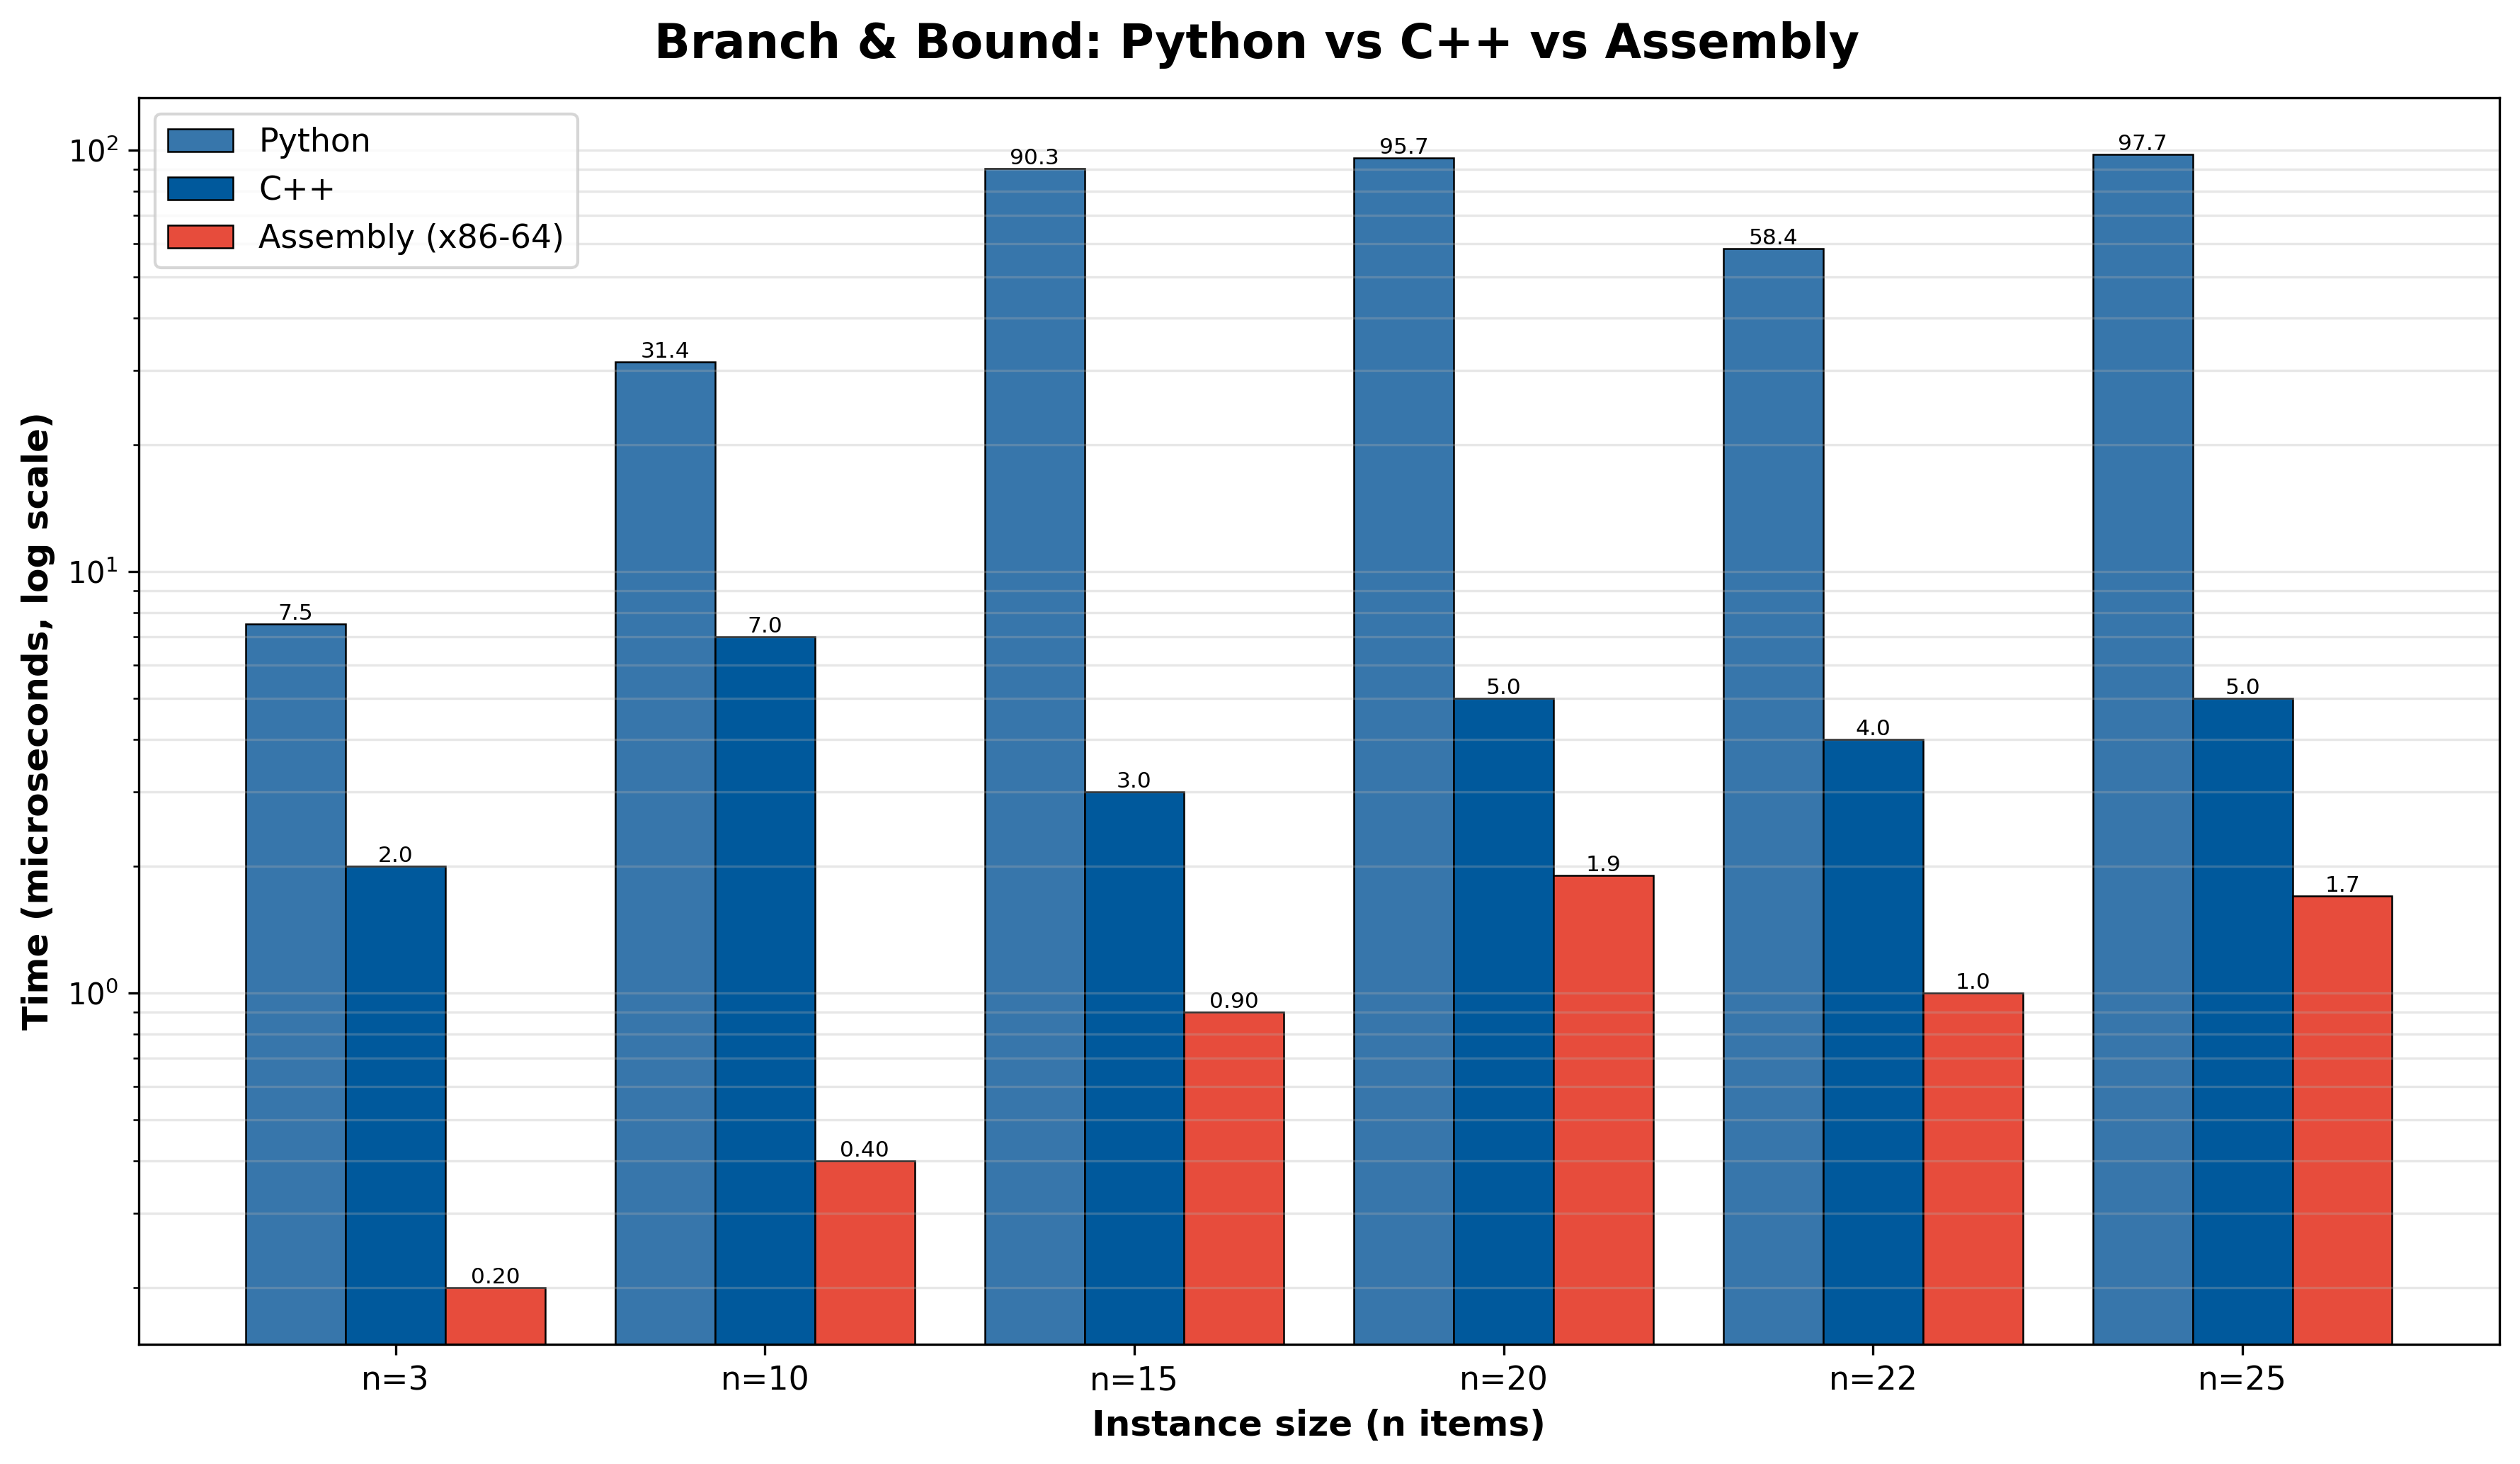
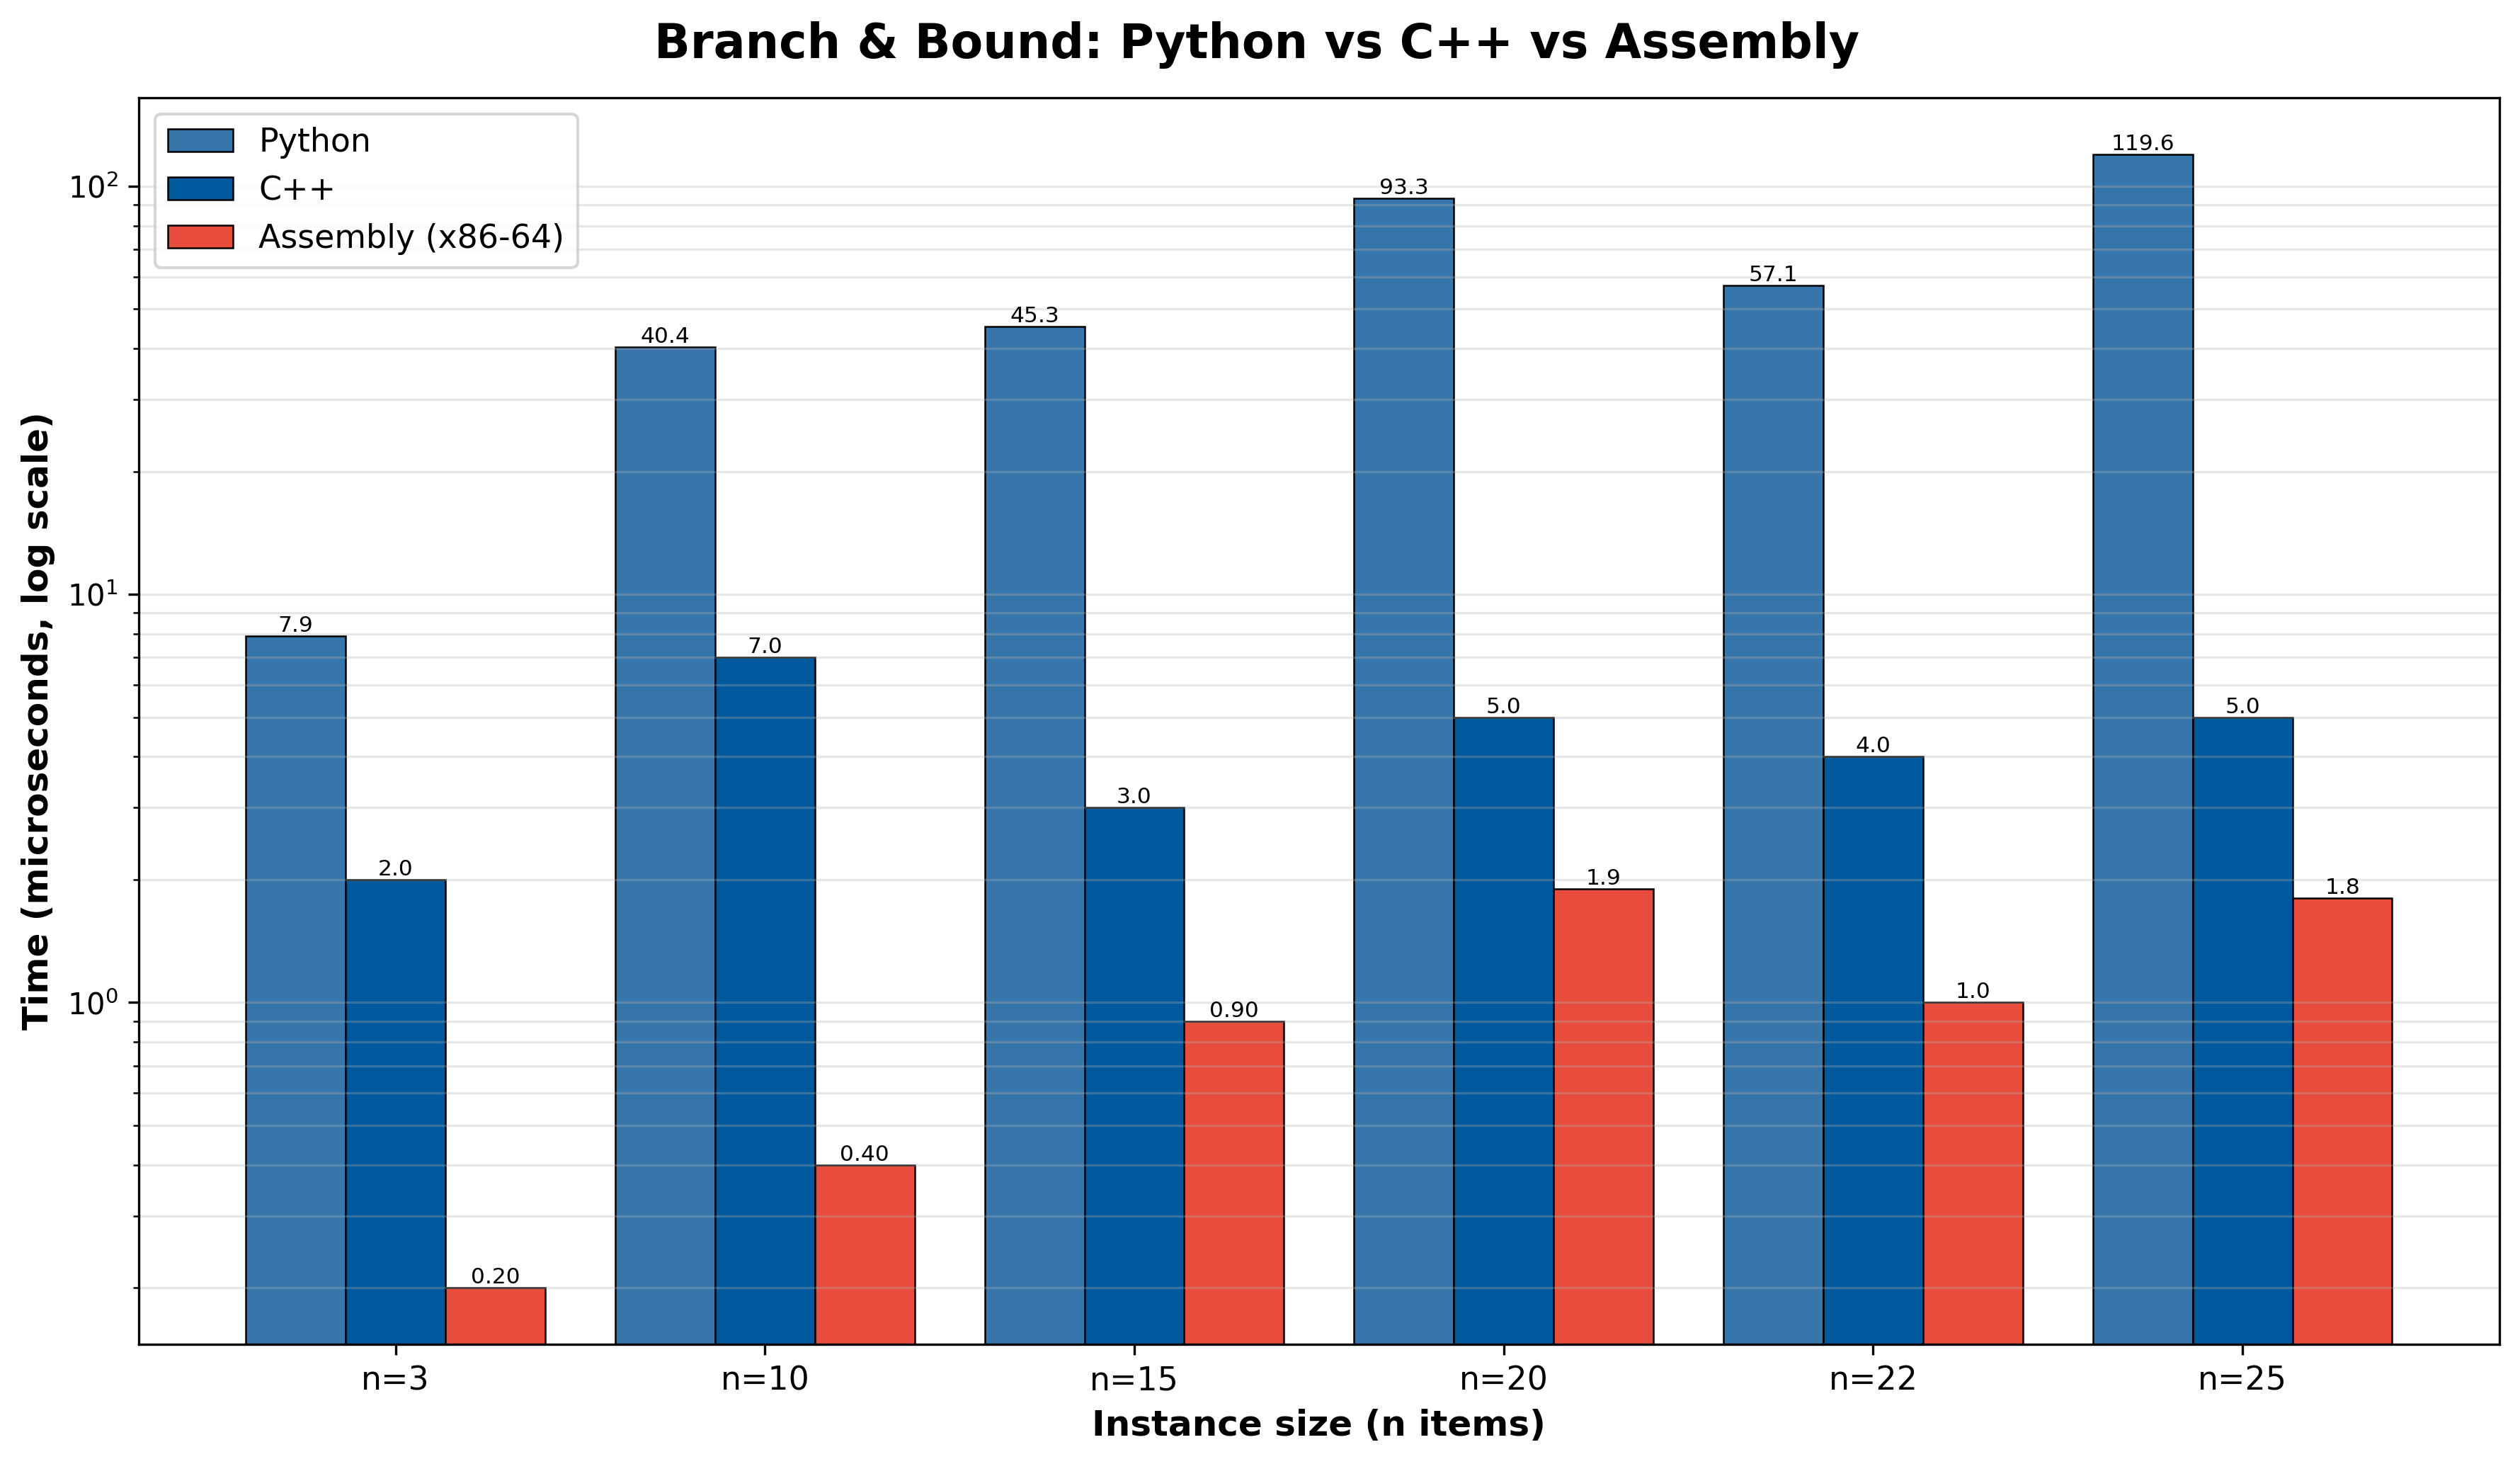
Add cross-solver verification tests and verification slide
- tests/test_knapsack.py: two new tests bring the suite to 9 passing.
  * test_all_solvers_agree_on_canonical_instance: PuLP, B&B, and brute
    force all return value=11 on PLAN-v1; each solution re-checked for
    feasibility and value/items consistency.
  * test_bb_matches_brute_force_on_random_instances: 50 seeded random
    instances (n=1..12), B&B must match the brute-force oracle on every
    one. Shared _assert_valid_solution helper enforces knapsack
    invariants (distinct indices, weight <= capacity, reported value =
    sum of selected values).
- notebooks/presentation_bb.html: new "Are the Solvers Actually
  Correct?" slide summarizing the 9-test suite, plus a takeaway bullet.
- Refresh benchmark_results_bb.json, knapsack_benchmark.ipynb,
  benchmark_bb_comparison.png, docs/speaker_notes_printable.txt from
  the 2026-06-08 figure regeneration.

diff --git a/notebooks/presentation_bb.html b/notebooks/presentation_bb.html
@@ -349,6 +349,32 @@ D:  value= 8  weight=4   (ratio 2.00)
   </aside>
 </section>
 
+<!-- ============================== 13c. VERIFICATION ============================== -->
+<section>
+  <h2>Are the Solvers Actually Correct?</h2>
+  <div class="small" style="text-align:left;">
+    <p>Benchmark numbers only mean something if the answer is right. The test suite cross-checks four independent implementations against each other:</p>
+    <ul style="line-height:1.55;">
+      <li><span class="accent">Known-answer tests</span> — PuLP &amp; B&amp;B both return <span class="ok">value=11</span> (PLAN-v1) and <span class="ok">value=598</span> (disaster relief).</li>
+      <li><span class="accent">Cross-solver agreement</span> — PuLP, B&amp;B, and brute force all agree on the canonical instance, and each reported solution is independently re-checked for feasibility.</li>
+      <li><span class="accent">Random-instance fuzzing</span> — 50 random instances (n=1..12, seeded). B&amp;B must match brute force on every one. Brute force is the <em>oracle</em>: correct by exhaustive enumeration.</li>
+      <li><span class="accent">Solution invariants</span> — for every returned solution: indices distinct, weight ≤ capacity, reported value = Σ values of selected items.</li>
+    </ul>
+  </div>
+  <pre class="tiny" style="margin-top:0.8em;"><code data-trim>tests/test_knapsack.py ................................... 9 passed in 0.23s
+  test_all_solvers_agree_on_canonical_instance        PASSED
+  test_bb_matches_brute_force_on_random_instances     PASSED  (50 random instances)</code></pre>
+  <aside class="notes">
+    A benchmark is only meaningful if the solver is correct. Four solvers, four angles of
+    verification. Brute force is the oracle because it tries every subset — it cannot be
+    wrong on small n. So if B&amp;B agrees with brute force on 50 random seeded instances,
+    plus the canonical instance, plus the disaster-relief instance, that's strong evidence
+    the pruning logic is sound. The invariant check also catches the subtler bug class
+    where the value is right but the reported item list is wrong. Nine tests pass in under
+    a second — full suite runs on every change.
+  </aside>
+</section>
+
 <!-- ============================== 14. TAKEAWAYS ============================== -->
 <section>
   <h2>Takeaways</h2>
@@ -357,6 +383,7 @@ D:  value= 8  weight=4   (ratio 2.00)
     <li><span class="ok">B&amp;B</span> uses an LP-relaxation bound to prune the search tree: correct, optimal, dramatically faster.</li>
     <li><span class="ok">Same algorithm in 3 languages</span> isolates language overhead from algorithm overhead — the speedups multiply independently.</li>
     <li><span class="ok">Connection:</span> the ILP solvers I use for logistics assignment are B&amp;B under the hood. Understanding B&amp;B = understanding the tools.</li>
+    <li><span class="ok">Verified:</span> 9-test pytest suite — known answers, cross-solver agreement, 50 random instances against the brute-force oracle, plus per-solution feasibility checks.</li>
   </ul>
   <p style="margin-top:2em;" class="accent">Questions?</p>
   <div class="footer-note">github.com/PeterKamau24/CS495-Logistics-Optimization-LLM</div>

diff --git a/tests/test_knapsack.py b/tests/test_knapsack.py
@@ -1,15 +1,23 @@
 """Tests for the knapsack solvers.
 
-Verifies both the PuLP and Branch & Bound implementations against the two
-known-answer instances documented in PLAN.md:
+Verifies the PuLP, Branch & Bound, and brute-force implementations against
+the two known-answer instances documented in PLAN.md plus cross-solver
+agreement on random instances:
 
   - PLAN-v1 instance: weights=[4,3,2], values=[8,5,6], capacity=5 → value=11
   - Disaster relief: 10 items, capacity=50 → value=598
+  - 50 random instances (n=1..12): B&B must agree with brute force AND
+    every reported solution must satisfy the knapsack invariants.
 """
+
+import io
+import random
+from contextlib import redirect_stdout
 
 import pytest
 
 from knapsack_branch_bound import knapsack_branch_bound, read_knapsack_instance
+from knapsack_brute_force import knapsack_brute_force
 from knapsack_pulp import (
     CAPACITY,
     SMALL_CAPACITY,
@@ -17,6 +25,15 @@ from knapsack_pulp import (
     small_items,
     solve_knapsack,
 )
+
+
+def _assert_valid_solution(selected, weights, values, capacity, reported_value):
+    """Knapsack feasibility + accounting invariants any solver must satisfy."""
+    assert len(set(selected)) == len(selected), "duplicate indices in solution"
+    assert all(0 <= i < len(weights) for i in selected), "out-of-range index"
+    assert sum(weights[i] for i in selected) <= capacity, "infeasible weight"
+    assert sum(values[i] for i in selected) == reported_value, \
+        "reported value does not match selected items"
 
 
 def test_pulp_plan_v1_instance():
@@ -60,3 +77,44 @@ def test_reader_rejects_malformed(tmp_path):
     f.write_text("only one line\n")
     with pytest.raises(ValueError):
         read_knapsack_instance(str(f))
+
+
+def test_all_solvers_agree_on_canonical_instance():
+    """PuLP, B&B, and brute force must all return value=11 on PLAN-v1."""
+    weights = [4, 3, 2]
+    values = [8, 5, 6]
+    capacity = 5
+
+    bb_value, bb_selected = knapsack_branch_bound(weights, values, capacity)
+    bf_value, bf_selected = knapsack_brute_force(weights, values, capacity)
+    with redirect_stdout(io.StringIO()):
+        _, _, pulp_value = solve_knapsack(small_items, SMALL_CAPACITY, "agreement")
+
+    assert bb_value == bf_value == pulp_value == 11
+    _assert_valid_solution(bb_selected, weights, values, capacity, bb_value)
+    _assert_valid_solution(bf_selected, weights, values, capacity, bf_value)
+
+
+def test_bb_matches_brute_force_on_random_instances():
+    """B&B must agree with brute force on 50 random instances (n=1..12).
+
+    Brute force is the oracle — it is correct by exhaustive enumeration, so
+    any divergence is a B&B bug. Also checks both solutions are feasible and
+    that the reported value matches the selected items.
+    """
+    rng = random.Random(42)
+    for trial in range(50):
+        n = rng.randint(1, 12)
+        weights = [rng.randint(1, 20) for _ in range(n)]
+        vals = [rng.randint(1, 100) for _ in range(n)]
+        capacity = rng.randint(1, sum(weights))
+
+        bb_value, bb_selected = knapsack_branch_bound(weights, vals, capacity)
+        bf_value, bf_selected = knapsack_brute_force(weights, vals, capacity)
+
+        assert bb_value == bf_value, (
+            f"trial {trial}: B&B={bb_value} BF={bf_value} "
+            f"w={weights} v={vals} C={capacity}"
+        )
+        _assert_valid_solution(bb_selected, weights, vals, capacity, bb_value)
+        _assert_valid_solution(bf_selected, weights, vals, capacity, bf_value)